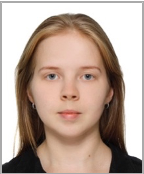
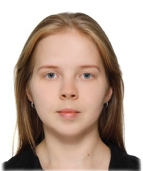
Added more design

diff --git a/css/styles.css b/css/styles.css
@@ -1,13 +1,16 @@
+/* ############### TAG SELECTORS ############### */
 body {
-  background-color: #ffffff;
+  background-color: #fffdf9;
+  font-family: brandon-grotesque, HelveticaNeue-Light, "Helvetica Neue Light", "Helvetica Neue", Helvetica, Arial, "Lucida Grande", sans-serif;
+  margin: 0;
 }
-hr {
 
+hr {
   border-style: dotted none none;
   border-color: #beebe9;
   border-width: 5px;
   width: 5%;
-
+  margin-top: 40px;
 }
 
 h1 {
@@ -16,4 +19,54 @@ h1 {
 
 h3 {
   color: #8ac6d1;
+}
+
+a {
+  color: #584153;
+  font-family: brandon-grotesque, HelveticaNeue-Light, "Helvetica Neue Light", "Helvetica Neue", Helvetica, Arial, "Lucida Grande", sans-serif;
+  text-decoration: none;
+  font-weight: bold;
+}
+
+a:hover {
+  color: #af8baf;
+}
+
+p {
+
+}
+
+/* ############### CLASS SELECTORS ############### */
+.id-photo {
+  border-radius: 100%;
+  background-color: #ffffff;
+  margin-top: 0;
+}
+
+.contact-button {
+  background-color: #ffe3ed;
+  padding: 10px;
+  text-decoration: none;
+  font-size: 20px;
+  border-radius: 3px;
+  margin: 30px 10px 10px 10px;
+  font-weight: normal;
+}
+
+.contact-button:hover {
+  background-color: #f6acc8;
+  color: #584153;
+}
+
+.top-container {
+  background-color: #beebe9;
+  text-align: center;
+}
+
+.middle-container {
+
+}
+
+.bottom-container {
+
 }

diff --git a/index.html b/index.html
@@ -6,15 +6,26 @@
 <head>
   <meta charset="utf-8">
   <title>Elena Ivankina - personal website</title>
-<link rel="stylesheet" href="css/styles.css">
+  <link rel="stylesheet" href="css/styles.css" type="text/css">
+  <link rel="icon" href="img/favicon.ico">
 </head>
 
 <body>
-  <img src="img/Picture1.png" alt="Elena Ivankina picture">
 
-  <h1>Elena Ivankina</h1>
-  <p><em>Software Product Manager at <strong><a href="https://solovisa.fi">SoloVisa</a></strong>.</em></p>
-  <p><em><strong><a href="contacts.html">Contact me</a></em></strong></p>
+  <div class="top-container">
+    <img class="id-photo" src="img/Picture1.png" alt="Elena Ivankina picture">
+    <h1>Elena Ivankina</h1>
+    <p><em>Software Product Manager at <strong><a href="https://solovisa.fi">SoloVisa</a></strong>.</em></p>
+    <p><a href="contacts.html" class="contact-button">CONTACT ME</a></p>
+  </div>
+
+<div class="middle-container">
+
+</div>
+
+<div class="bottom-container">
+
+</div>
 
 
   <hr>

diff --git a/contacts.html b/contacts.html
@@ -4,7 +4,7 @@
 <head>
   <meta charset="utf-8">
   <title>Elena Ivankina - personal website</title>
-  <link rel="stylesheet" href="css/styles.css">
+  <link rel="stylesheet" href="css/styles.css" type="text/css">
 </head>
 
 <body>
